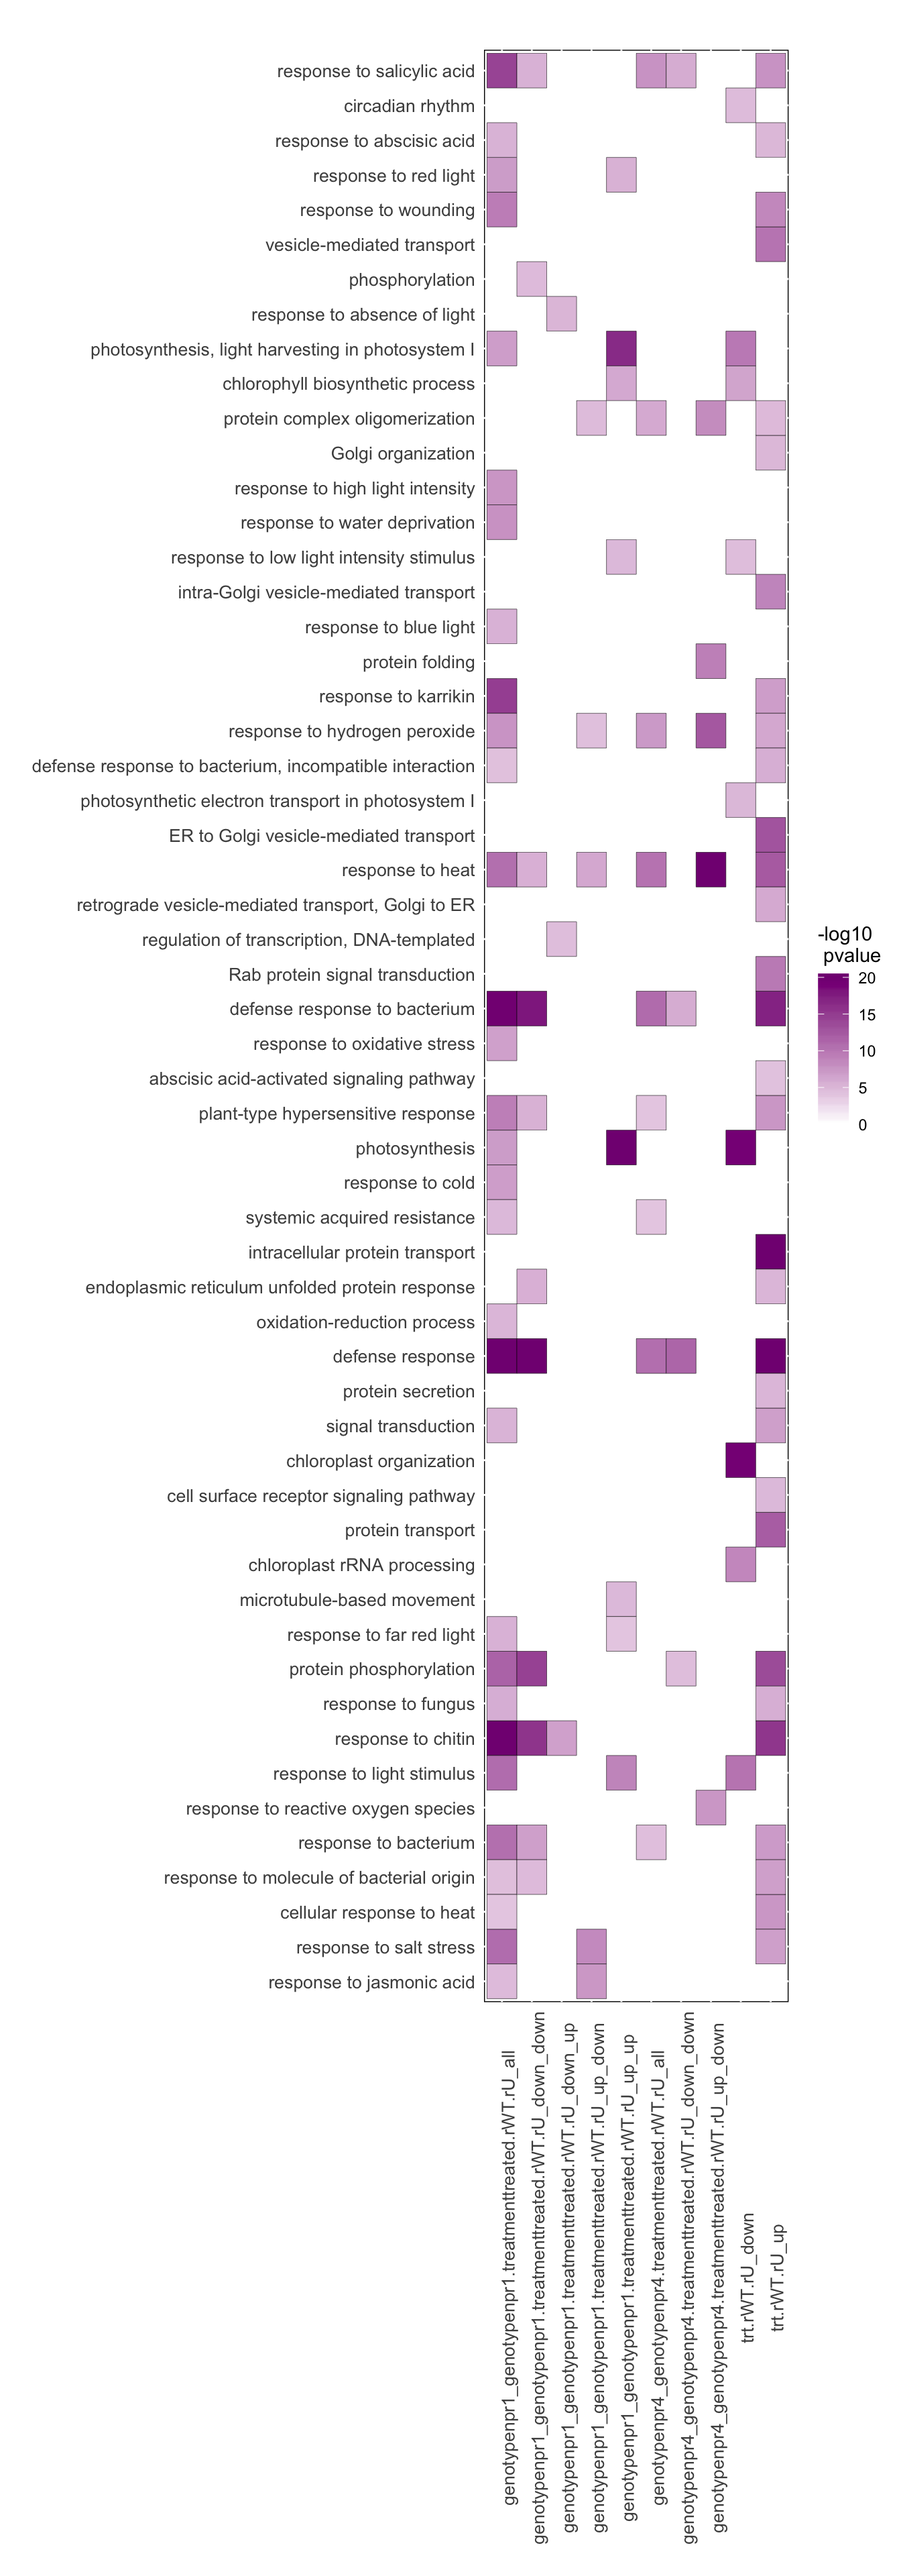
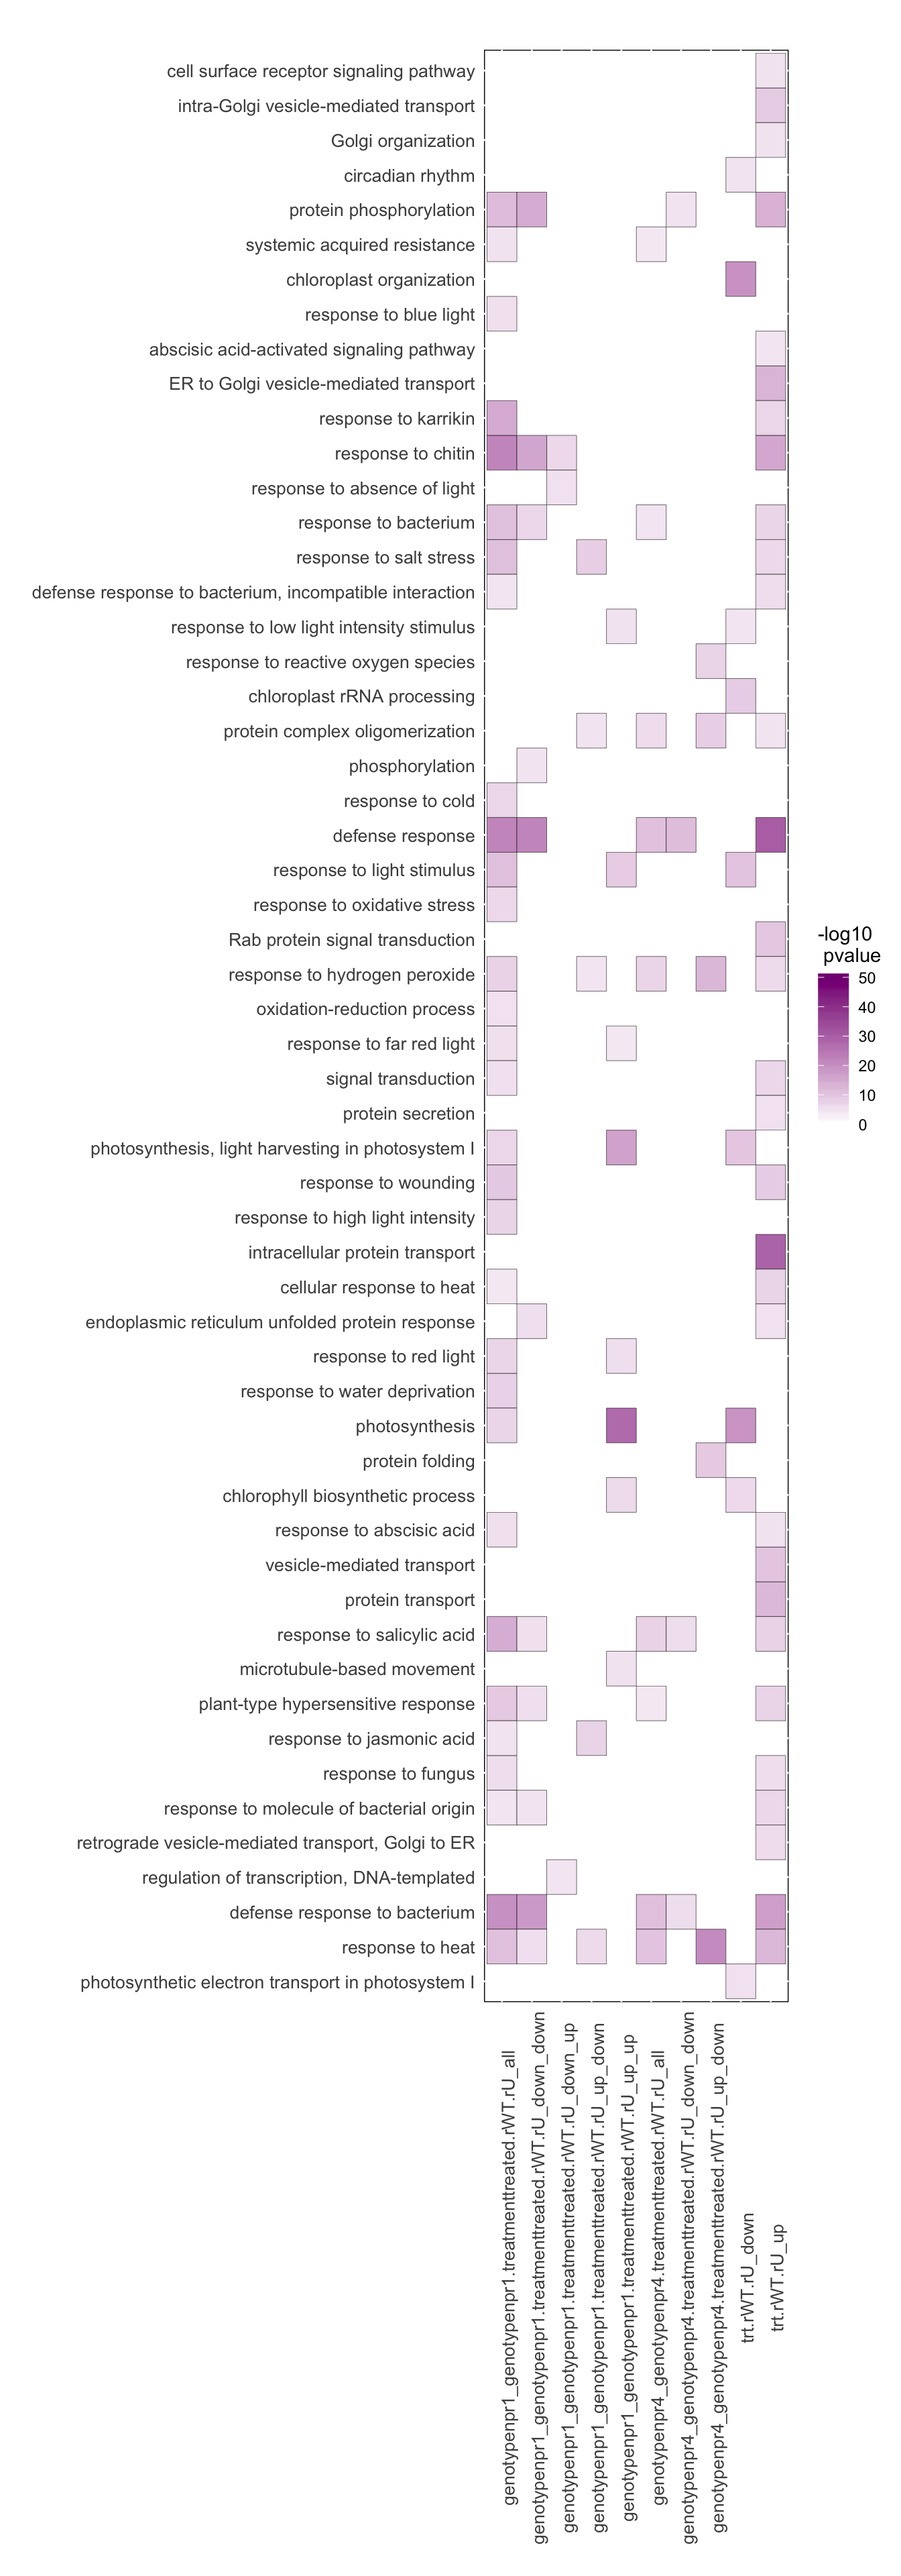
100718v1

diff --git a/post/2018/09/27/over-representation-analysis-4-heatmap-visualization/index.html b/post/2018/09/27/over-representation-analysis-4-heatmap-visualization/index.html
@@ -1000,18 +1000,20 @@ eGOseqs.list2.summary &lt;- eGOseqs.list2.summary %&gt;% mutate(sample=str_remov
 # Making matrix for calculate hierarchical clustering of &quot;over-representd_padjust&quot; value using sperad
 df&lt;-eGOseqs.list2.summary %&gt;% dplyr::select(category,sample_FC,over_represented_padjust) %&gt;% spread(sample_FC,over_represented_padjust,-1)
 
-df[df&lt;1e-10]&lt;-1e-10 # to avoid &quot;Inf&quot; after log10 transformation
+df[df&lt;1e-100]&lt;-1e-100 # to avoid &quot;Inf&quot; after log10 transformation
 df&lt;- df %&gt;% mutate_at(vars(2:11) ,.funs=function(x) -log10(x))
 # df&lt;- df %&gt;% mutate_at(vars(2:11) ,.funs=-log10) # does not work
 
 df[is.na(df)]&lt;-1
-hc&lt;-stats::hclust(dist(df[,2:11]), &quot;ave&quot;) # only numbers
+df2&lt;-df[,2:11]
+rownames(df2)&lt;-df$category
+hc&lt;-stats::hclust(dist(df2), &quot;ave&quot;) # only numbers
 hc$order</code></pre>
-<pre><code>##  [1] 51 53 26 18 47 35 23 25 16 38 29 45 12 40 42  2 39 24 33 14 50  5 52
-## [24] 48 31 34 17 13 15  8 55 41  3 30  1 56  9 22 21  4 49 46 43 32 10  6
-## [47]  7 36 27 54 20 28 11 37 19 44</code></pre>
-<pre class="r"><code>hc$labels &lt;-df$category
-hc.tib&lt;-tibble(category=df$category,order=hc$order)
+<pre><code>##  [1] 18 51 53 41  5 35 10 52  2 23 25 47  3 30  1  4 31 55 22 39 24 33 14
+## [24] 50 48  6  8 34 17 13 15  7 43  9 46 49 32 56 16 38 12 29 45 40 42 44
+## [47] 21 37 26 36 27 54 20 28 11 19</code></pre>
+<pre class="r"><code>#hc$labels &lt;-df$category # true?
+hc.tib&lt;-tibble(category=hc$labels,order=hc$order)
 library(scales)</code></pre>
 <pre><code>## 
 ## Attaching package: &#39;scales&#39;</code></pre>
@@ -1025,11 +1027,11 @@ library(scales)</code></pre>
 hc.tib2&lt;-hc.tib %&gt;% inner_join(eGOseqs.list2.summary[,c(&quot;category&quot;,&quot;term&quot;)],by=&quot;category&quot;) %&gt;% distinct() %&gt;% arrange(desc(order))
 eGOseqs.list2.summary$term&lt;-factor(eGOseqs.list2.summary$term,levels=as_vector(hc.tib2$term))
 # To avoid gray color, add 1e-20 to smaller padjust value
-eGOseqs.list2.summary$over_represented_padjust[eGOseqs.list2.summary$over_represented_padjust&lt;1e-20]&lt;-1e-20
+eGOseqs.list2.summary$over_represented_padjust[eGOseqs.list2.summary$over_represented_padjust&lt;1e-50]&lt;-1e-50
 # format x label
 #eGOseqs.list2.summary &lt;- eGOseqs.list2.summary  %&gt;% mutate(sample2=str_replace(sample,&quot;trt.density&quot;,&quot;trt_density&quot;)) %&gt;%  separate(sample2,into=c(&quot;tissue&quot;,&quot;factor&quot;,&quot;DEGs&quot;,&quot;model&quot;,&quot;ref_density&quot;,&quot;ref_soil&quot;),sep=&quot;\\.&quot;) %&gt;% mutate(ref_soil=str_remove(ref_soil,&quot;r&quot;)) %&gt;% mutate(ref_density=str_remove(ref_density,&quot;r&quot;))  %&gt;% unite(density_FC,ref_density,FC) # simplify elements in &quot;density_FC&quot; column for simpler x label in heatmap
 # plot
-  GOseq.plot&lt;-ggplot(eGOseqs.list2.summary,aes(x=sample_FC,y=term)) + geom_tile(aes(fill=-log10(over_represented_padjust)),colour=&quot;black&quot;)  + scale_fill_gradient2(limit=c(0,20),low=muted(&quot;green&quot;), high=muted(&quot;magenta&quot;)) # OK
+  GOseq.plot&lt;-ggplot(eGOseqs.list2.summary,aes(x=sample_FC,y=term)) + geom_tile(aes(fill=-log10(over_represented_padjust)),colour=&quot;black&quot;)  + scale_fill_gradient2(limit=c(0,50),low=muted(&quot;green&quot;), high=muted(&quot;magenta&quot;)) # OK
 GOseq.plot&lt;-GOseq.plot+     theme(axis.text.x=element_text(size=10,angle=90),
           axis.text.y=element_text(size=10),
           axis.title=element_text(size=10),

diff --git a/post/2018/09/27/over-representation-analysis-3-goseq-with-non-model-go-term/index.html b/post/2018/09/27/over-representation-analysis-3-goseq-with-non-model-go-term/index.html
@@ -4,7 +4,7 @@
     <meta charset="utf-8">
     <meta name="viewport" content="width=device-width, initial-scale=1">
     
-    <title>Over-representation analysis 2: GOseq with custom categories | </title>
+    <title>Over-representation analysis 3: GOseq with GO term in non-model organisms | </title>
     <link rel="stylesheet" href="/css/style.css" />
     <link rel="stylesheet" href="/css/fonts.css" />
     <link href="//cdn.bootcss.com/highlight.js/9.12.0/styles/github.min.css" rel="stylesheet">
@@ -46,7 +46,7 @@
   
   </div>
 
-  <h1><span class="title">Over-representation analysis 2: GOseq with custom categories</span></h1>
+  <h1><span class="title">Over-representation analysis 3: GOseq with GO term in non-model organisms</span></h1>
 
   
   <h3 class="author">Kazu Nozue
@@ -64,12 +64,14 @@
 
 
 <main>
-<div id="if-you-want-to-use-your-own-categories-instead-of-go-terms" class="section level1">
-<h1>If you want to use your own categories instead of GO terms?</h1>
+<div id="if-you-want-to-analyze-non-model-organisms-what-you-an-do" class="section level1">
+<h1>If you want to analyze non-model organisms, what you an do?</h1>
 <p>Please prepare</p>
-</div>
-<div id="section" class="section level1">
-<h1></h1>
+<ol class="example" style="list-style-type: decimal">
+<li>fasta file for cDNA of your species,</li>
+<li>fasta file for cDNA of a close model organisms to your species,</li>
+<li>blastn program installed in your computer (UNIX (or Mac OSX) or LINUX) (<a href="https://www.ncbi.nlm.nih.gov/books/NBK52640/">detailed instruciton from NCBI</a>)</li>
+</ol>
 </div>
 <div id="uner-construction" class="section level1">
 <h1>uner construction</h1>
@@ -218,8 +220,8 @@ GOseq.Brgo.Atgoslim.BP.list.ORA&lt;-function(genelist,padjust=0.05,ontology=&quo
 
 
 <nav class="post-nav">
-  <span class="nav-prev"><a href="/post/2018/10/01/differential-expression-analysis-with-public-available-sequencing-data/">&larr; Differential expression analysis with public available sequencing data</a></span>
-  <span class="nav-next"><a href="/post/2018/09/27/over-representation-analysis-3-goseq-with-non-model-go-term/">Over-representation analysis 3: GOseq with GO term in non-model organisms &rarr;</a></span>
+  <span class="nav-prev"><a href="/post/2018/09/27/over-representation-analysis-3-goseq-with-non-model-go-term/">&larr; Over-representation analysis 2: GOseq with custom categories</a></span>
+  <span class="nav-next"><a href="/post/2018/09/27/over-representation-analysis-4-heatmap-visualization/">Over-representation analysis 4:  heatmap visualization &rarr;</a></span>
 </nav>
 
 

diff --git a/tags/ポータブル充電器/index.html b/tags/ポータブル充電器/index.html
@@ -23,7 +23,7 @@
       <div class="head-meta">
       
         <span>ポータブル充電器</span>
-        <span>2018-10-06</span>
+        <span>2018-10-07</span>
         
         <span>1 / 1</span>
       

diff --git a/tags/portable-wifi-router/index.html b/tags/portable-wifi-router/index.html
@@ -23,7 +23,7 @@
       <div class="head-meta">
       
         <span>Portable-WiFi-router</span>
-        <span>2018-10-06</span>
+        <span>2018-10-07</span>
         
         <span>1 / 1</span>
       

diff --git a/404.html b/404.html
@@ -23,7 +23,7 @@
       <div class="head-meta">
       
         <span>404 Page not found</span>
-        <span>2018-10-06</span>
+        <span>2018-10-07</span>
         
         <span>1 / 7</span>
       

diff --git a/categories/project-management/index.html b/categories/project-management/index.html
@@ -23,7 +23,7 @@
       <div class="head-meta">
       
         <span>Project-management</span>
-        <span>2018-10-06</span>
+        <span>2018-10-07</span>
         
         <span>1 / 1</span>
       

diff --git a/tags/プリペイドsim/index.html b/tags/プリペイドsim/index.html
@@ -23,7 +23,7 @@
       <div class="head-meta">
       
         <span>プリペイドSIM</span>
-        <span>2018-10-06</span>
+        <span>2018-10-07</span>
         
         <span>1 / 1</span>
       

diff --git a/tags/prepaid-sim-card/index.html b/tags/prepaid-sim-card/index.html
@@ -23,7 +23,7 @@
       <div class="head-meta">
       
         <span>Prepaid-SIM-card</span>
-        <span>2018-10-06</span>
+        <span>2018-10-07</span>
         
         <span>1 / 1</span>
       

diff --git a/tags/wifiルーター/index.html b/tags/wifiルーター/index.html
@@ -23,7 +23,7 @@
       <div class="head-meta">
       
         <span>WiFiルーター</span>
-        <span>2018-10-06</span>
+        <span>2018-10-07</span>
         
         <span>1 / 1</span>
       

diff --git a/tags/reproducibility/index.html b/tags/reproducibility/index.html
@@ -23,7 +23,7 @@
       <div class="head-meta">
       
         <span>Reproducibility</span>
-        <span>2018-10-06</span>
+        <span>2018-10-07</span>
         
         <span>1 / 2</span>
       

diff --git a/tags/reproducibility/page/2/index.html b/tags/reproducibility/page/2/index.html
@@ -23,7 +23,7 @@
       <div class="head-meta">
       
         <span>Reproducibility</span>
-        <span>2018-10-06</span>
+        <span>2018-10-07</span>
         
         <span>2 / 2</span>
       

diff --git a/tags/実験ノート/index.html b/tags/実験ノート/index.html
@@ -23,7 +23,7 @@
       <div class="head-meta">
       
         <span>実験ノート</span>
-        <span>2018-10-06</span>
+        <span>2018-10-07</span>
         
         <span>1 / 1</span>
       
